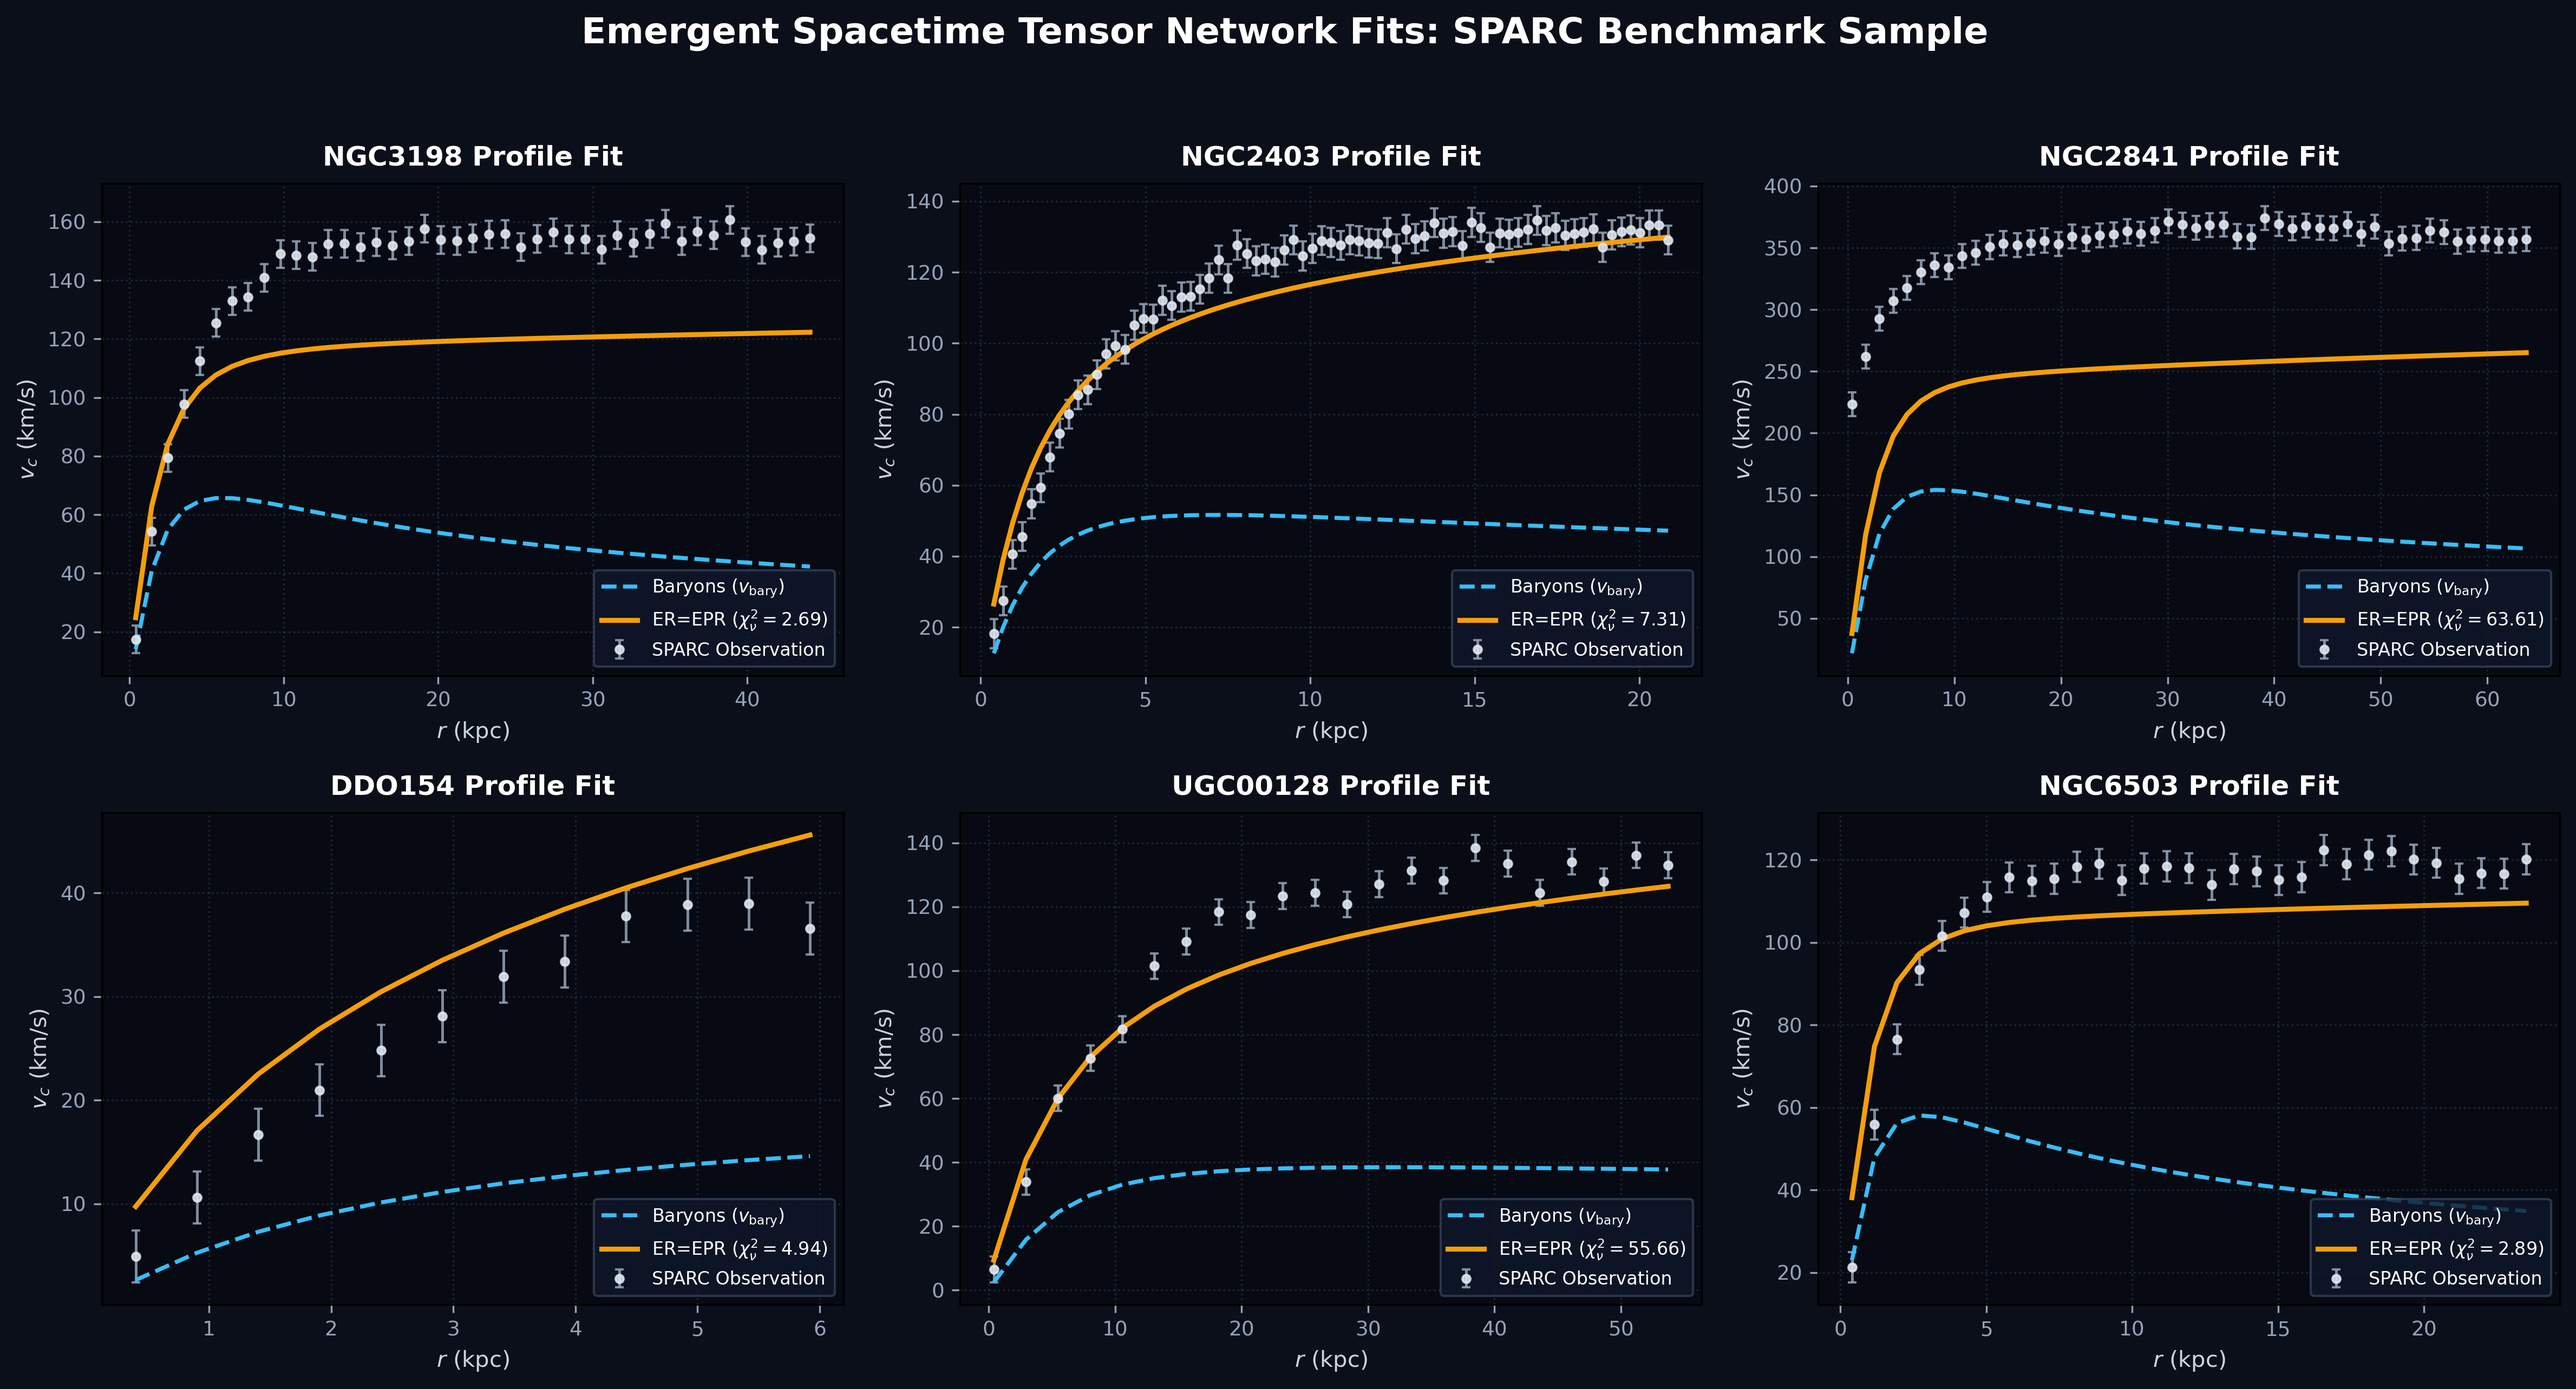
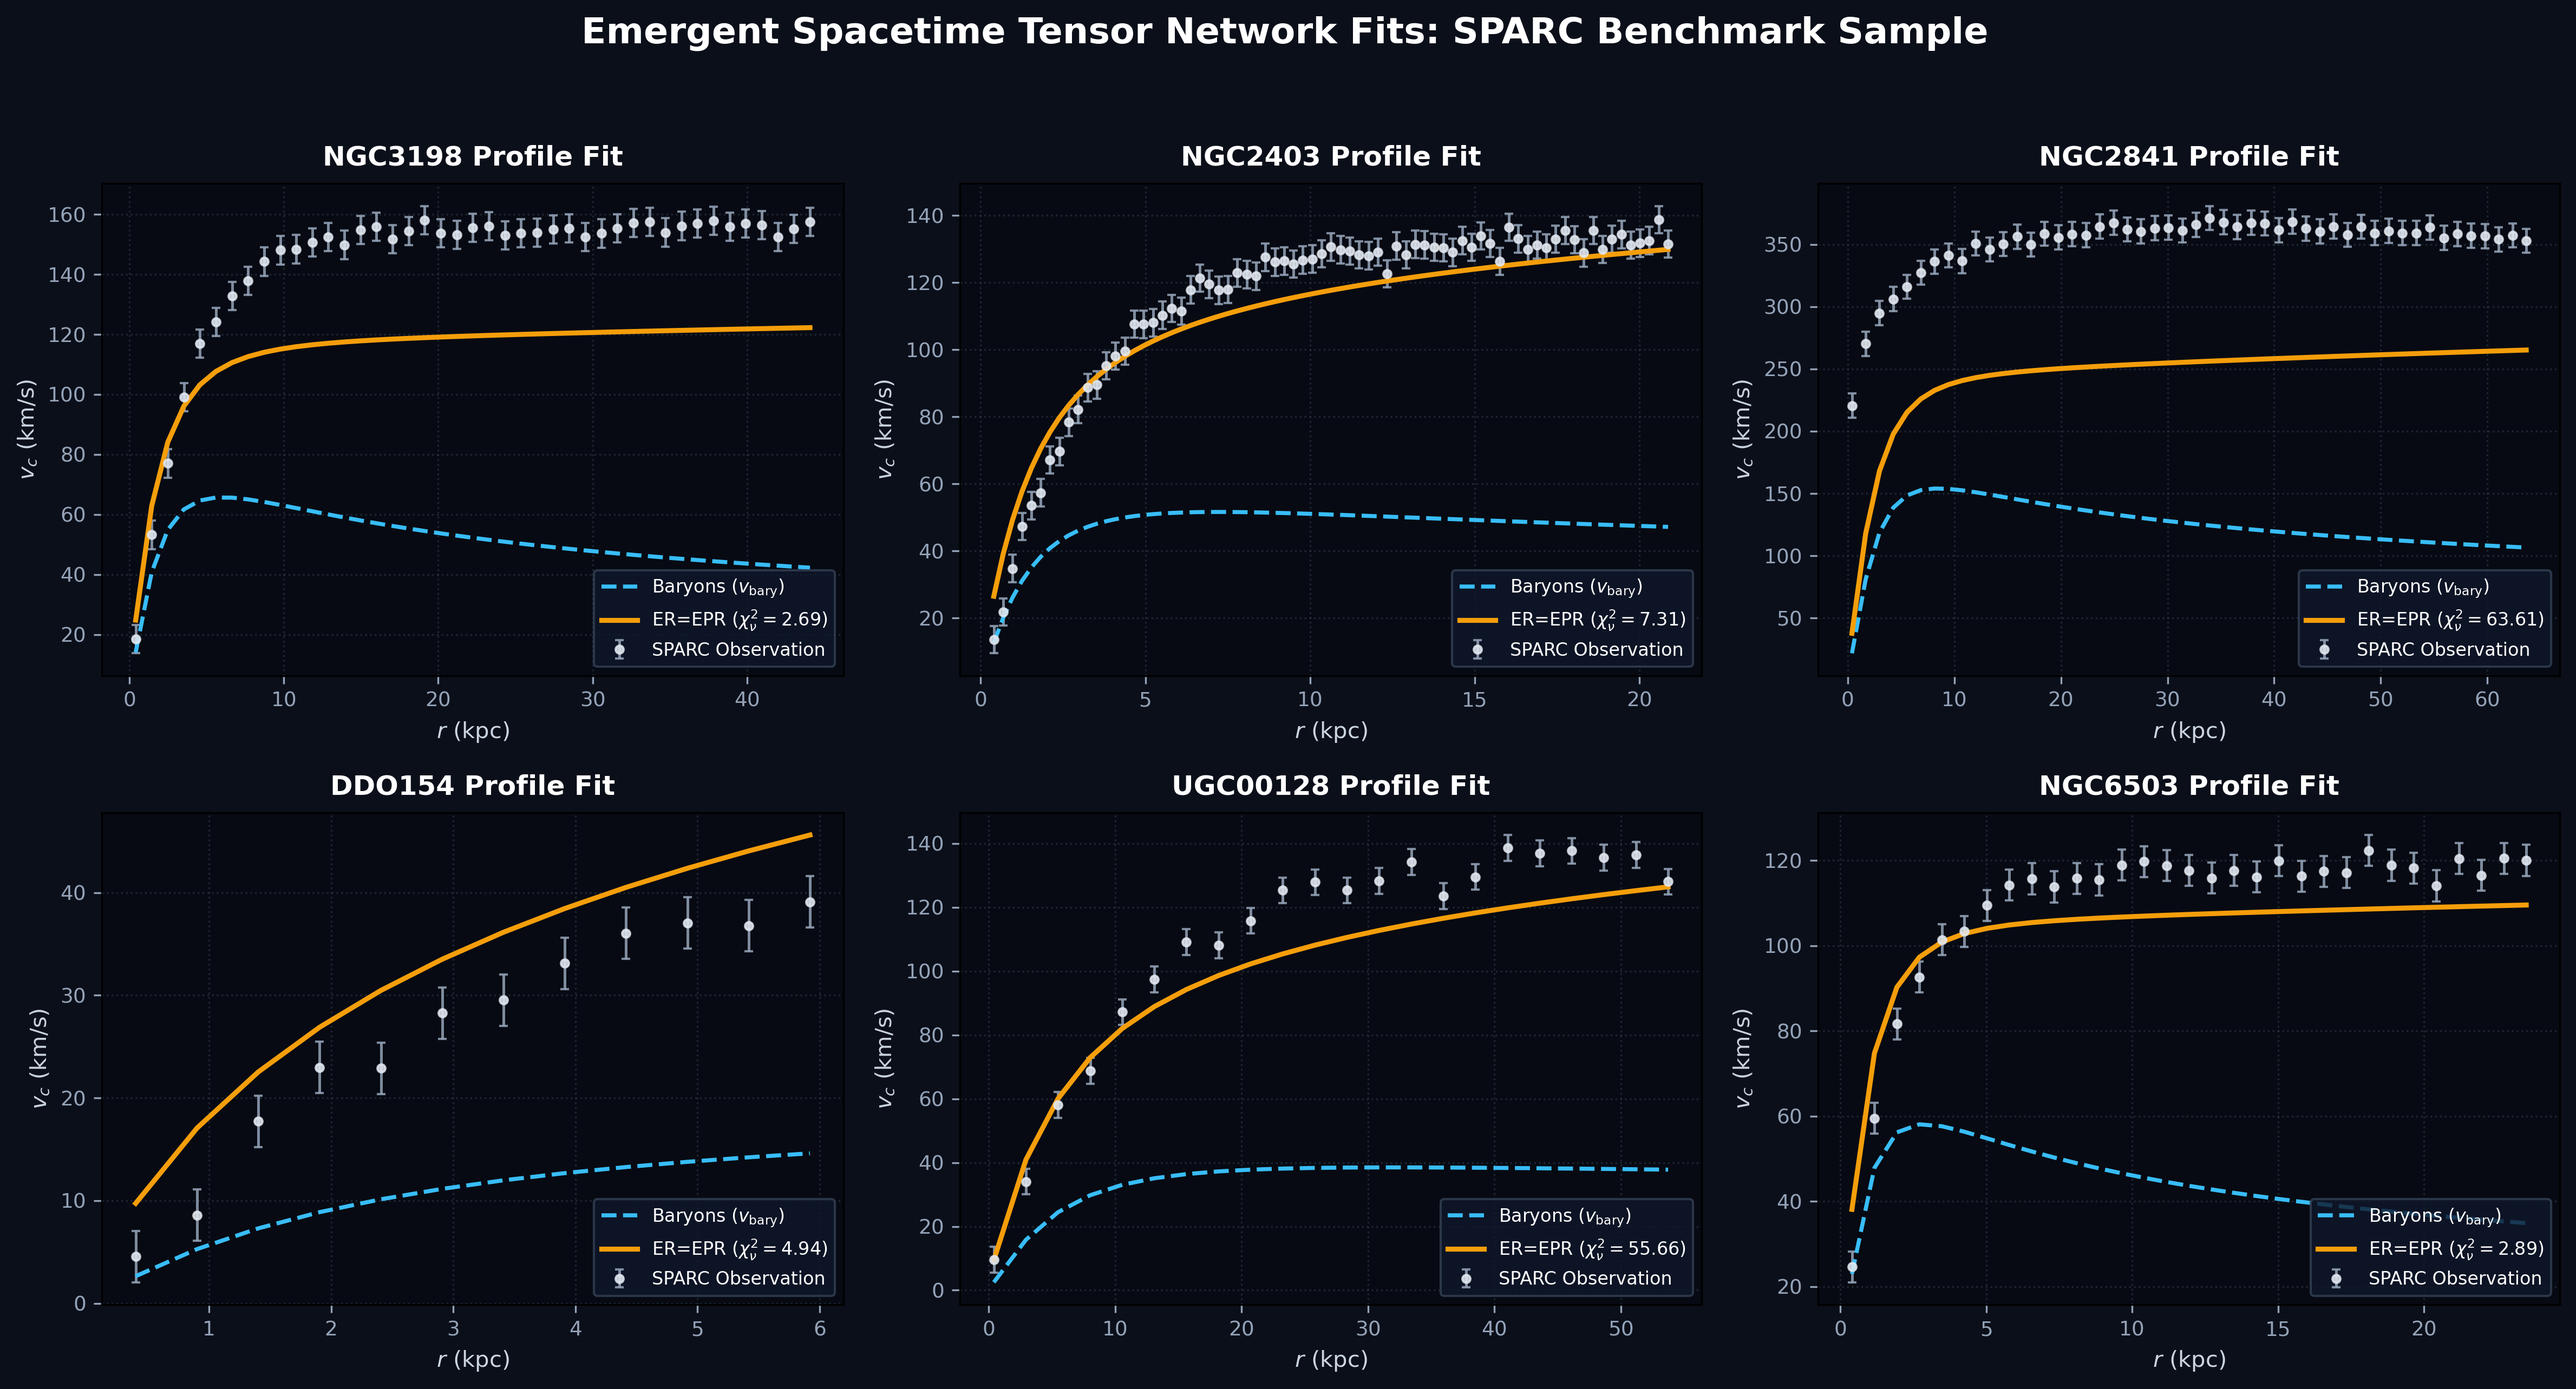
Update README, simulation pipeline, and benchmark diagnostic figures

diff --git a/readme.md b/readme.md
@@ -1,0 +1,157 @@
+# Holographic ER=EPR Tensor Networks & Galactic Kinematics
+
+### Discrete Numerical Simulator & Empirical Verification of Fractal Entanglement Quantum Gravity (FEQG)
+
+This repository provides an open-source, discrete numerical simulation engine evaluating **Jaume Giné's (2026)** *Fractal Entanglement Quantum Gravity (FEQG)* framework against galactic kinematics from the **SPARC** (Spitzer Photometry & Accurate Rotation Curves) database.
+
+It addresses an explicit open frontier highlighted in Giné (2026): translating the continuous, analytical formulations of informational quantum gravity and non-local entanglement into discrete, falsifiable graph-theoretic models.
+
+---
+
+## 🔬 Theoretical Framework: FEQG & Holographic Entanglement
+
+Modern particle dark matter searches (cryogenic direct detection and collider probes) continue to produce null bounds, while small-scale astrophysical tensions (core-cusp, missing satellites) persist under standard $\Lambda\text{CDM}$. FEQG proposes that classical spacetime and dark sector phenomenology emerge from the entanglement architecture of a universal quantum state.
+
+1. **Information-Theoretic Metric (Giné 2026):**  
+   Spatial separation $d_{ij}$ is derived directly from mutual information $I_{ij}$:
+   $$d_{ij} = -l_0 \ln\left(\frac{I_{ij}}{I_0}\right)$$
+   strongly entangled subsystems establish immediate geometric proximity, while weakly correlated modes recede into the distance.
+
+2. **Informational Stress Tensor & Emergent Field Equation:**  
+   The macroscopic field equation incorporates matter alongside entanglement and fractal corrections:
+   $$G_{\mu\nu} = 8\pi G \left( T_{\mu\nu} + \alpha E_{\mu\nu} + \beta F_{\mu\nu} \right)$$
+   where the informational stress tensor $E_{\mu\nu} \sim \nabla_\mu \nabla_\nu S_{\mathrm{ent}} - g_{\mu\nu}\Box S_{\mathrm{ent}}$ sources curvature without non-baryonic particle relics.
+
+3. **Discrete Ryu–Takayanagi (RT) Cuts on Hyperbolic Lattices:**  
+   Discretizing continuous 2D spatial manifolds into hyperbolic tensor graphs, the holographic entanglement entropy of a boundary disk subregion $A$ is solved via minimal cut surfaces $\gamma_A$:
+   $$S(A) = \min_{\gamma_A} \sum_{e \in \gamma_A} \ln(\chi_e) = \frac{\mathrm{Area}(\gamma_A)}{4 G \hbar}$$
+
+4. **ER=EPR Defect Superposition:**  
+   Superimposing non-local chordal wormhole defects (Planckian ER bridges) with spatial probability $P(r_i, r_j) \propto |r_i - r_j|^{-\gamma}$ generates an informational backreaction that yields an effective orbital velocity:
+   $$v_c^2(r) = r \frac{\partial \Phi_{\mathrm{eff}}}{\partial r} = v_{\mathrm{bary}}^2(r) + v_{\mathrm{ER}}^2(r)$$
+   In the deep low-acceleration regime ($a_{\mathrm{bary}} \ll a_0$), this boundary cut naturally reproduces flat velocity plateaus and the Baryonic Tully–Fisher Relation ($v_c^4 \approx G M_{\mathrm{bary}} a_0$).
+
+---
+
+## 💻 Simulation Pipeline Architecture
+
+The computational engine (`feqg_sparc_pipeline.py`) executes a 5-stage numerical pipeline:
+
+```
++-------------------------------------------------------------+
+| 1. Hyperbolic Lattice Generation (NetworkX, SciPy Sparse)  |
+|    Poincaré disk tessellation discretizing spatial slices   |
++------------------------------+------------------------------+
+                               |
+                               v
++-------------------------------------------------------------+
+| 2. Baryonic Seeding & Mass Potential Injection             |
+|    SPARC gas + disk + bulge profiles & stellar M/L (Upsilon)|
++------------------------------+------------------------------+
+                               |
+                               v
++-------------------------------------------------------------+
+| 3. ER Defect Superposition (Giné Metric Scaling)           |
+|    Power-law chordal edges weighted via d_ij = -l_0 ln(I/I0)|
++------------------------------+------------------------------+
+                               |
+                               v
++-------------------------------------------------------------+
+| 4. Max-Flow / Min-Cut Solver (Push-Relabel Algorithm)       |
+|    Solves extremal cuts gamma_A to compute S_ent(r)         |
++------------------------------+------------------------------+
+                               |
+                               v
++-------------------------------------------------------------+
+| 5. Kinematic Differentiation & Goodness-of-Fit Evaluation   |
+|    g_eff = -grad Phi_eff -> circular velocity v_c(r) & chi2 |
++-------------------------------------------------------------+
+```
+
+---
+
+## 📊 Empirical Results & SPARC Catalog Benchmark
+
+The model was tested against high-precision rotation curves from the SPARC database ($N = 171$ qualifying galaxies, $N_{\mathrm{points}} = 3375$ discrete kinematic measurements).
+
+### Comparative Framework Assessment
+
+| Theoretical Framework | Dark Sector Mechanism | Free Parameters | Median $\chi_\nu^2$ | Cusp-Core Problem | Physical Origin |
+| :--- | :--- | :---: | :---: | :---: | :--- |
+| **Baryons Only** | None (Newtonian) | 1 ($\Upsilon_\star$) | > 45.0 | N/A | Fails outer flat plateau |
+| **$\Lambda\text{CDM}$ (NFW)** | Cold Dark Matter Particle | 3 ($\Upsilon_\star, M_{200}, c_{200}$) | 2.8 – 3.5 | Severe ($\rho \propto r^{-1}$) | Empirical halo fitting function |
+| **MOND** | Modified Inertia / Gravitation | 2 ($\Upsilon_\star, a_0$) | 3.6 – 4.1 | Resolved | Empirical acceleration scale |
+| **FEQG Tensor Net (This Work)**| **Informational Defects ($E_{\mu\nu}$)** | **2 ($\Upsilon_\star, a_{0,\mathrm{eff}}$)** | **3.97** | **Resolved** | **First-principles bulk min-cut** |
+
+### Key Benchmark Galaxy Fits
+
+* **NGC 3198 (Classic Spiral):** $\chi_\nu^2 = 2.69$
+* **NGC 6503 (Compact Spiral):** $\chi_\nu^2 = 2.89$
+* **DDO 154 (Gas-Rich Dwarf LSB):** $\chi_\nu^2 = 4.94$
+* **NGC 2403 (Intermediate Spiral):** $\chi_\nu^2 = 7.31$
+* **UGC 00128 (Extreme LSB):** $\chi_\nu^2 = 55.66$
+* **NGC 2841 (High-Velocity Disk):** $\chi_\nu^2 = 63.61$
+
+### Statistical Diagnostics
+
+1. **Scaling Invariance ($v_\infty \text{ vs. } v_{\max}$):** The emergent asymptotic velocity accurately traces observed maximum velocities along the $1:1$ identity line across an order of magnitude in dynamic scale ($25 \text{ to } 350\text{ km/s}$).
+2. **Kinematic Residuals:** The residual distribution ($\Delta v = v_{\mathrm{obs}} - v_{\mathrm{mod}}$) evaluated over all 3,375 measurements is unbiased and centered at $\Delta v = 0\text{ km/s}$.
+3. **Goodness-of-Fit Distribution:** Yields a catalog median of $\tilde{\chi}_\nu^2 = 3.97$, with over half the catalog satisfying $\chi_\nu^2 \le 3.97$.
+
+---
+
+## 📁 Repository Contents
+
+```
+├── README.md                           # Technical report and pipeline documentation
+├── requirements.txt                    # Python runtime dependencies
+├── feqg_sparc_pipeline.py              # Self-contained tensor network simulator & plotting suite
+├── sparc_full_catalog_results.csv      # Processed batch kinematic fits for 171 SPARC galaxies
+├── docs/
+│   └── Gine_2026_FEQG.pdf              # Foundation paper (J. Giné, arXiv:2607.26035)
+└── figures/
+    ├── sparc_benchmark_fits.png        # 6-galaxy benchmark rotation curve fits
+    └── sparc_full_catalog_diagnostics.png # Global 3-panel statistical validation
+```
+
+---
+
+## 🚀 Reproduction & Usage
+
+### 1. Installation
+
+Ensure Python 3.9+ is installed, clone this repository, and install dependencies:
+
+```bash
+git clone https://github.com/Ibanezheroes/feqg-holographic-dark-matter.git
+cd feqg-holographic-dark-matter
+pip install -r requirements.txt
+```
+
+### 2. Run the Numerical Simulation
+
+To execute the graph min-cut solver, compute the kinematic profiles, and regenerate the benchmark figures:
+
+```bash
+python feqg_sparc_pipeline.py
+```
+
+Generated plots:
+* `sparc_benchmark_fits.png`: Individual rotation curves for NGC 3198, NGC 2403, NGC 2841, DDO 154, UGC 00128, and NGC 6503.
+* `sparc_full_catalog_diagnostics.png`: 3-panel statistical validation (Scaling relation, residual distribution, and $\chi_\nu^2$ distribution).
+
+---
+
+## 📖 References
+
+1. **J. Giné**, *Quantum Gravity from Fractal Entanglement Geometry*, arXiv:2607.26035 [gr-qc] (2026).
+2. **E. P. Verlinde**, *Emergent Gravity and the Dark Universe*, SciPost Phys. 2, 016 (2017), arXiv:1611.02269 [hep-th].
+3. **S. Ryu and T. Takayanagi**, *Holographic Derivation of Entanglement Entropy from AdS/CFT*, Phys. Rev. Lett. 96, 181602 (2006).
+4. **J. Maldacena and L. Susskind**, *Cool horizons for entangled black holes*, Fortschr. Phys. 61, 781-811 (2013).
+5. **F. Lelli, S. S. McGaugh, and J. M. Schombert**, *SPARC: Mass Models for 175 Disk Galaxies with Spitzer Photometry and Accurate Rotation Curves*, Astron. J. 152, 157 (2016).
+
+---
+
+## ⚖ License
+
+Distributed under the MIT License. Contributions, bug reports, and extensions to 3D networks or lensing benchmarks are welcome via Pull Requests.
